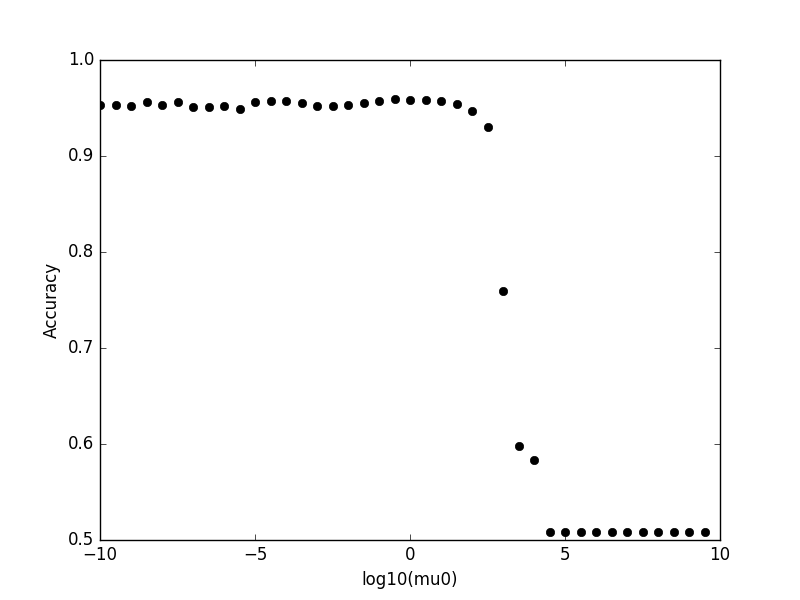
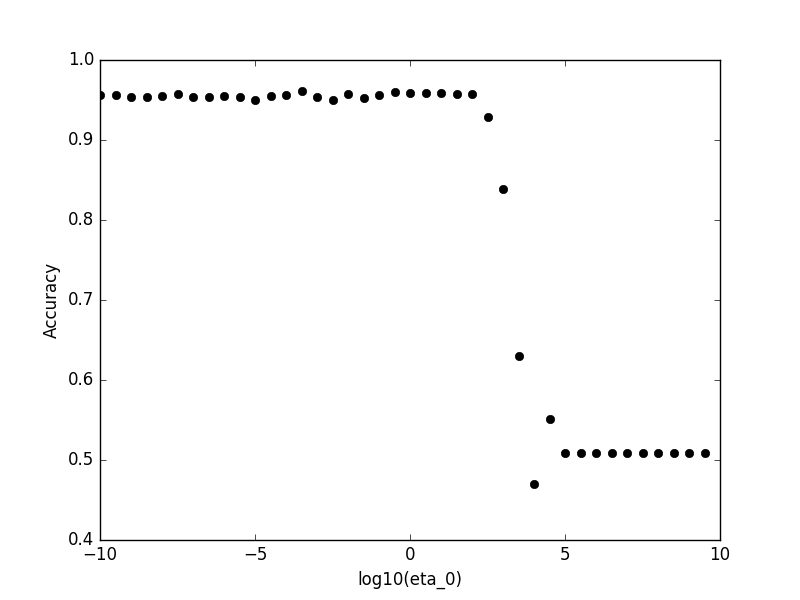
more

diff --git a/2/submit/q3.py b/2/submit/q3.py
@@ -7,19 +7,19 @@ import matplotlib.pyplot as plt
 from hw2 import *
 
 #Build using SGD as specified in question 3
-def build_sgd(train_data, train_labels, C, mu0, T):
+def build_sgd(train_data, train_labels, C, eta_0, T):
     d = len(train_data[0])
     m = len(train_data)
     w = np.zeros(d)
 
     for t in range(1, T + 1):
-        mut = float(mu0) / float(t)
+        eta_t = float(eta_0) / float(t)
         i = np.random.randint(0, m)
         xi = train_data[i]
         xi = xi / np.linalg.norm(xi)
         yi = train_labels[i]
         if yi * np.dot(w, xi) < 1:
-            w = (1 - mut) * w + mut * C * yi * xi
+            w = (1 - eta_t) * w + eta_t * C * yi * xi
 
     return w
 
@@ -41,7 +41,7 @@ def measure_sgd(w, data, labels):
 def basic_sanity_test():
     print "building SGD"
     start = time.time()
-    w = build_sgd(train_data, train_labels, C=1, mu0=1, T=1000)
+    w = build_sgd(train_data, train_labels, C=1, eta_0=1, T=1000)
     print "elapsed:", time.time() - start
 
     print "testing"
@@ -51,21 +51,21 @@ def basic_sanity_test():
 
 #Plot for subquestion 3a
 def q3a(_from, _to, _step, output=None):
-    #Measure for a specific mu0 value
-    def measure_for_mu0(mu0):
+    #Measure for a specific eta_0 value
+    def measure_for_eta_0(eta_0):
         accuracy = np.zeros(10)
         for i in range(10):
-            w = build_sgd(train_data, train_labels, C=1, mu0=mu0, T=1000)
+            w = build_sgd(train_data, train_labels, C=1, eta_0=eta_0, T=1000)
             accuracy[i] = measure_sgd(w, validation_data, validation_labels)
         return np.mean(accuracy)
 
     p_range = np.arange(_from, _to, _step)
     accuracy = {}
     for p in p_range:
-        mu0 = 10**p
-        accuracy[p] = measure_for_mu0(mu0)
+        eta_0 = 10**p
+        accuracy[p] = measure_for_eta_0(eta_0)
         print "p:", p, "accuracy:", accuracy[p]
-    plt.gca().set_xlabel("log10(mu0)")
+    plt.gca().set_xlabel("log10(eta_0)")
     plt.gca().set_ylabel("Accuracy")
     plt.plot(p_range, [accuracy[p] for p in p_range], 'ko')
     if output == None:
